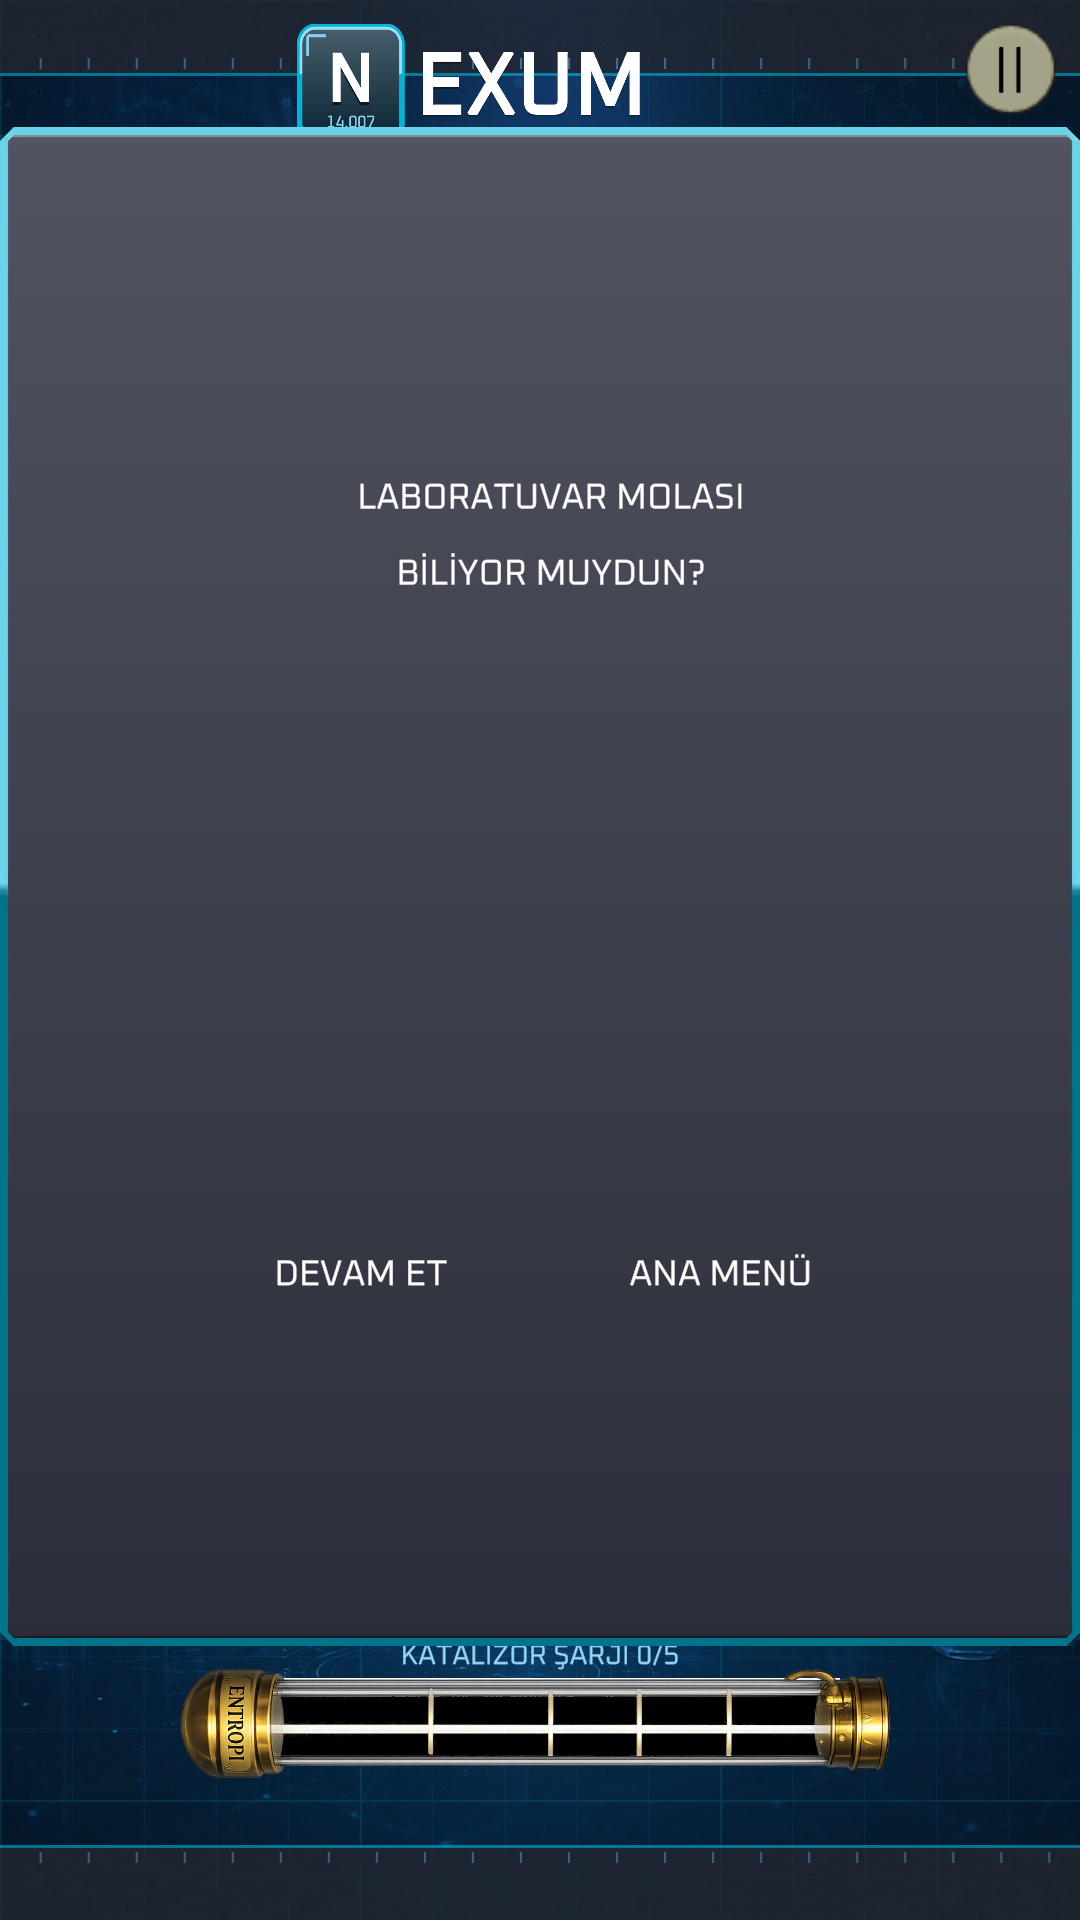
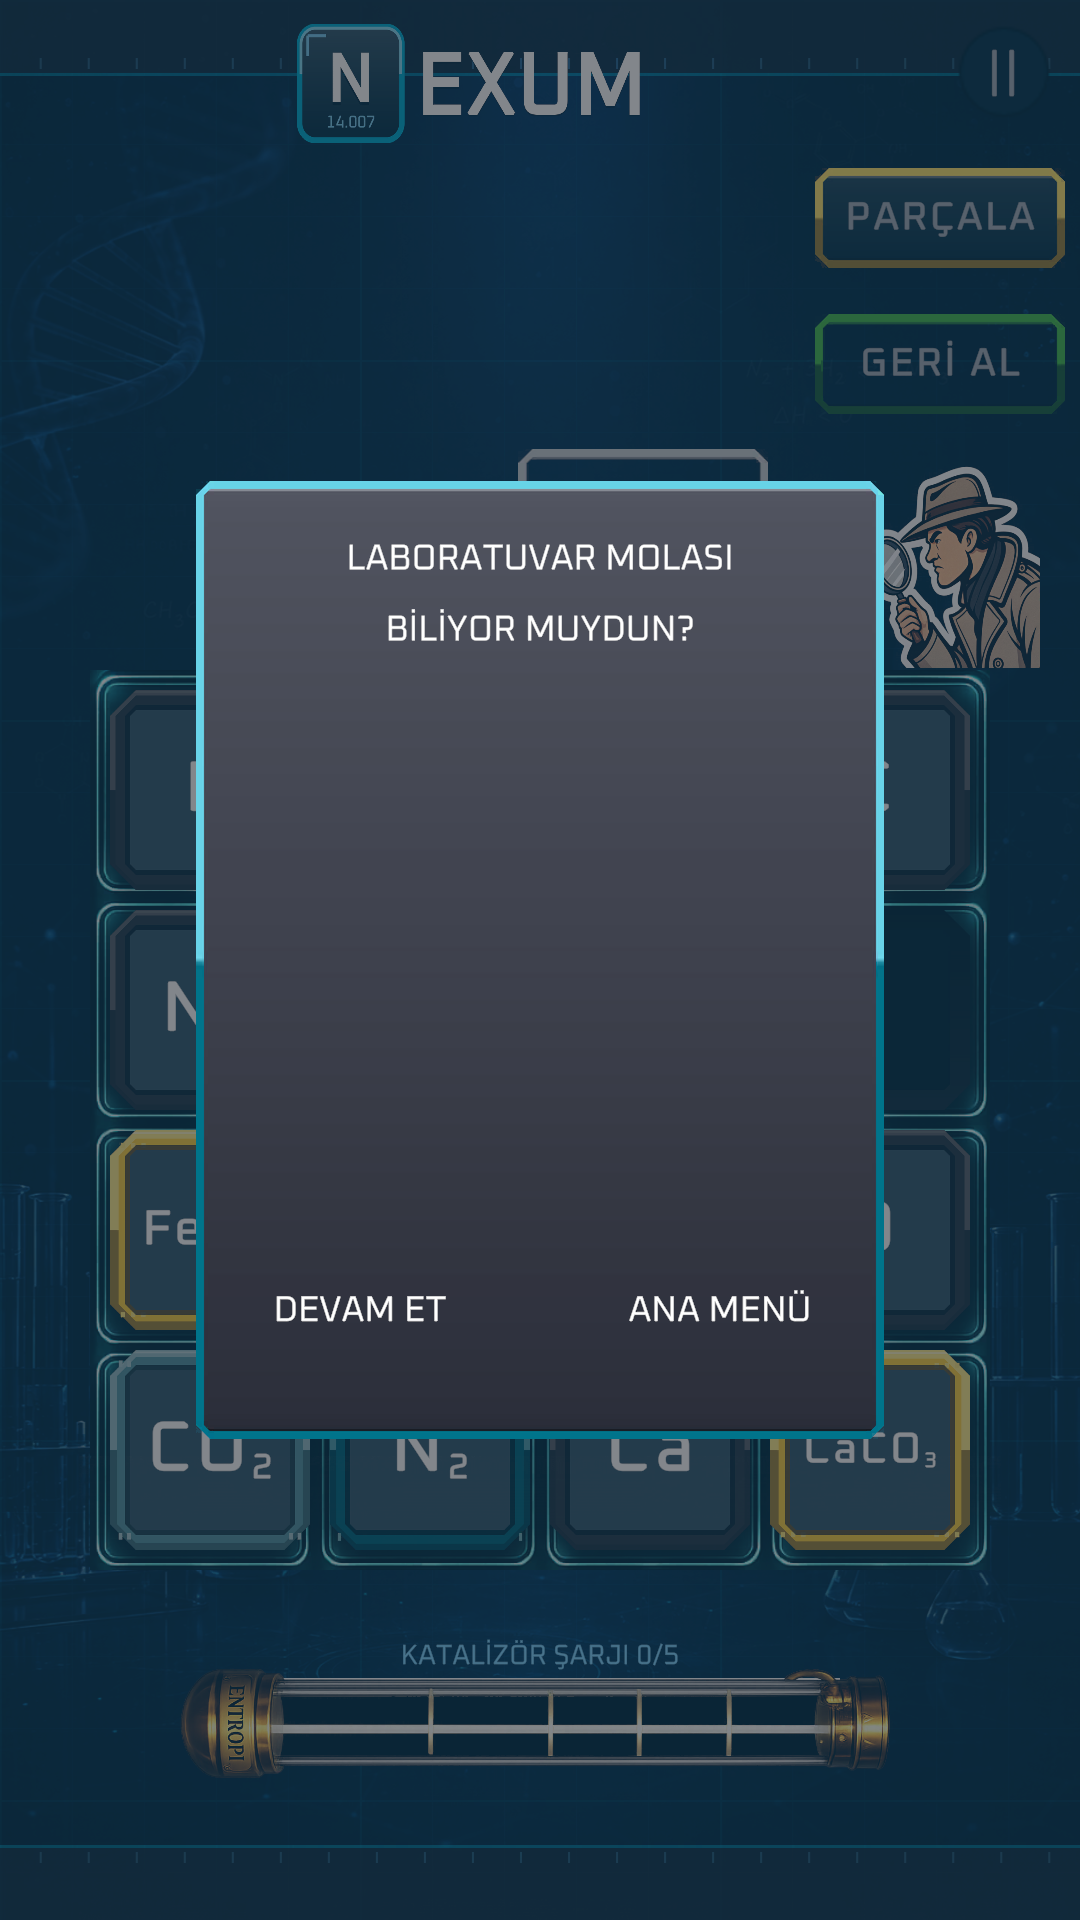
Device shot'lar, 1:1 tahta kesiti ve 3b kapsami
NexumDeviceShot: 6 ekran x 2 boyut (1080x1920, 1440x1920) + tahtanin
1:1 kesiti (detay_tahta-1-1.png, 900x900). Seviye merdiveni metnin
olmadigi cercevede tasiniyor ve cerceve ince bir eleman; olcum sayisinin
vaat ettigi ayrimin gozle de okundugu bu kesitten gorulur. Dort seviye +
bos hucre ayni karede.

Kesit koordinati duzeltildi: GridBoard merkezi ekranin ALTINDAN 800
birim ve Texture2D'de de y=0 alttadir; "ustten" hesaplamak kareyi
kaydiriyordu.

NEXT_3B: ana menunun hub duzeni Faz 1.7'ye alindi. 3b bes maddeye
indi (dort menu butonu, ipucu butonu, beher etiketi, duraklat karti,
mod karti durum satirlari); kapsam disi kalan dort acik madde ayri
tabloya alindi.

.gitignore: Test Runner'in yarida kesilen kosmadan birakdigi
InitTestScene*.unity yok sayiliyor.

diff --git a/Assets/Editor/NexumDeviceShot.cs b/Assets/Editor/NexumDeviceShot.cs
@@ -37,7 +37,7 @@ public static class NexumDeviceShot
         new Vector2Int(1440, 1920),
     };
 
-    private struct Ekran
+    public struct Ekran
     {
         public string ad;
         public string scene;
@@ -46,7 +46,7 @@ public static class NexumDeviceShot
         public bool tahtayiDoldur;
     }
 
-    private static readonly Ekran[] Ekranlar =
+    public static readonly Ekran[] Ekranlar =
     {
         new Ekran { ad = "ana-menu", scene = "Assets/Scenes/MainMenu.unity",
                     ac = new[] { "SafeAreaRoot/MainMenuPanel" },
@@ -113,11 +113,48 @@ public static class NexumDeviceShot
             }
         }
 
+        TahtaKesiti();
         Debug.Log($"{Tag}: {alinan} görüntü -> {OutDir}");
         Debug.Log($"{Tag}: OK");
     }
 
-    private static void Hazirla(Transform canvas, Ekran e)
+    /// <summary>
+    /// 4x4 tahtanın 1:1 (birim = piksel) kesiti. Seviye merdiveni ÇERÇEVEDE
+    /// taşınıyor ve çerçeve ince bir eleman: ölçüm sayısının vaat ettiği
+    /// ayrımın gözle de okunduğu buradan görülür. Dört seviye + boş hücre
+    /// aynı karede.
+    /// </summary>
+    private static void TahtaKesiti()
+    {
+        string kaynak = $"{OutDir}/oyun_1080x1920.png";
+        if (!File.Exists(kaynak))
+        {
+            Debug.LogError($"{Tag}: {kaynak} yok");
+            return;
+        }
+
+        byte[] ham = File.ReadAllBytes(kaynak);
+        Texture2D tam = new Texture2D(2, 2, TextureFormat.RGB24, false);
+        if (!tam.LoadImage(ham)) { Object.DestroyImmediate(tam); return; }
+
+        // GridBoard: 900x900, anchor (0.5, 0.41666666) -> merkez ekranın
+        // ALTINDAN 800 birim. Texture2D'de de y=0 alttadır, yani kesit
+        // doğrudan 350..1250 aralığı; "üstten" hesaplamak kareyi kaydırıyordu.
+        const int x0 = 90, w = 900, h = 900, y0 = 350;
+
+        Texture2D kes = new Texture2D(w, h, TextureFormat.RGB24, false);
+        kes.SetPixels(tam.GetPixels(x0, y0, w, h));
+        kes.Apply();
+
+        string yol = $"{OutDir}/detay_tahta-1-1.png";
+        File.WriteAllBytes(yol, kes.EncodeToPNG());
+        Debug.Log($"{Tag}: {yol}  {w}x{h} (1:1)");
+
+        Object.DestroyImmediate(kes);
+        Object.DestroyImmediate(tam);
+    }
+
+    public static void Hazirla(Transform canvas, Ekran e)
     {
         foreach (string p in e.kapa)
         {
@@ -136,7 +173,7 @@ public static class NexumDeviceShot
     }
 
     /// <summary>Oyun ekranı için tahtaya dört seviyeden taş yerleştirir.</summary>
-    private static void TahtayiDoldur(Scene scene)
+    public static void TahtayiDoldur(Scene scene)
     {
         GridManager grid = Object.FindObjectOfType<GridManager>(true);
         if (grid == null) return;

diff --git a/docs/ui-kit/NEXT_3B.md b/docs/ui-kit/NEXT_3B.md
@@ -27,26 +27,34 @@ Loc anahtarları **hazır** (tr + en, `NexumLocalize` ile derlendi):
 | `menu.level_select` | BÖLÜM SEÇİMİ | LEVEL SELECT |
 | `menu.coming_soon` | Yakında | Coming soon |
 
-## 2. Ana menü hub düzeni
+## 2. Ana menü hub düzeni — **FAZ 1.7'YE ALINDI**
 
-- **Logo EN ÜSTTE ince bant** (profil şeridinin altında değil).
-- **Mod kartları ve günlük bulmaca kartı boş kalmayacak**; her biri tek satır
-  durum taşıyacak — anahtarlar yukarıda hazır.
-- **Bilgi satırı (Ansiklopedi, Tarif Defteri) en zayıf ağırlıkta olmayacak**;
-  mod kartlarıyla eşit ağırlık alacak.
-- Gizleme bayrağı: yeni oyuncuya kilitli girişler gösterilmez.
+Hub düzeni (logo bandı, mod kartları, günlük bulmaca kartı, bilgi satırının
+ağırlığı, kilitli giriş gizleme) **3b kapsamından çıkarıldı**. Loc anahtarları
+yukarıda hazır bekliyor; iş Faz 1.7'de yapılacak.
 
-## 3. Yerleşim düzeltmeleri — 3a'da yapılamayanlar
+## 3. 3b KAPSAMI — beş madde
 
-| Konu | Neden 3a'da yapılmadı | 3b'de ne yapılacak |
-|---|---|---|
-| **Dört menü butonu** (`oyna`, `nasıloynanır`, `ansiklopedi`, `ayarlar`) | Metin **görselin içinde basılı**; kit çerçevesi koymak metni siler | Kit çerçevesi + **TMP etiketi eklenecek** (yapı değişikliği, UIBuilder) |
-| **Beher etiketi** | Formül beherin **içinde** ve çok küçük, okunmuyor | Formül beherin **YANINDA** duracak; sayaç `chip` sprite'ına taşınacak |
-| **Katalizör tüpü** | 3-slice uygulaması yeni oran gerektiriyor | Tüp yatayda 3-slice, dolum çubuğu camın içine |
-| **İpucu butonu** | HUD'da yok | `GERİ AL / PARÇALA / İPUCU` üçlüsü, rozet, devre dışı durumu |
-| **Karakter (hint_assistant)** | Sağ kenardan taşıyor | `icon_button` / `avatar_frame` içine alınıp yeniden çerçevelenecek |
-| **Taş durum sprite'ları** | `TileVisual` bağlı ama yalnızca `newborn` tetikleniyor | `selected` / `merging` / `discovered` çağrı noktaları eklenecek |
-| **Toggle ve kilitli bölüm sprite'ları** | Sahnede `Image.sprite` olarak değil, Button geçişinde tutuluyor olabilir — swap tablosunda eşleşme bulunamadı | Nerede tutulduğu bulunup kite bağlanacak |
+Aşağıdakiler dışında 3b'ye bir şey eklenmez.
+
+| # | Konu | Neden 3a'da yapılmadı | 3b'de ne yapılacak |
+|---|---|---|---|
+| 1 | **Dört menü butonu** (`oyna`, `nasıloynanır`, `ansiklopedi`, `ayarlar`) | Metin **görselin içinde basılı**; kit çerçevesi koymak metni siler | Kit çerçevesi + **TMP etiketi eklenecek** (yapı değişikliği, UIBuilder) |
+| 2 | **İpucu butonu** | HUD'da ayrı bir buton yok; ipucu karakterin kendisine basılarak açılıyor | `GERİ AL / PARÇALA / İPUCU` üçlüsü, rozet, devre dışı durumu |
+| 3 | **Beher etiketi** | Formül beherin **içinde** ve çok küçük, okunmuyor | Formül beherin **YANINDA** duracak; sayaç `chip` sprite'ına taşınacak |
+| 4 | **Duraklat kartı** | 3a'da yalnızca çerçeve ve ritim düzeltildi; DEVAM ET / ANA MENÜ hâlâ görselsiz (alfa 0) metin | Butonlar kit çerçevesine oturtulacak |
+| 5 | **Mod kartı durum satırları** | Ayarlar'daki üç mod butonu hangi modun seçili olduğunu yalnızca sprite durumuyla anlatıyor | Her mod kartı tek satır durum/açıklama taşıyacak |
+
+### 3b dışında kalan, bilinen açık maddeler
+
+Bunlar 3b kapsamında **değil**; sırası geldiğinde ayrı adım olarak ele alınır.
+
+| Konu | Durum |
+|---|---|
+| Katalizör tüpü 3-slice | Açık |
+| Karakter (`hint_assistant`) çerçevelenmesi | Açık |
+| Taş durum sprite'ları (`selected` / `merging` / `discovered` çağrı noktaları) | Açık — yalnızca `newborn` tetikleniyor |
+| Toggle sprite'ları `SettingsManager`'da çalışma zamanında atanıyor | Açık — kite bağlanacak |
 
 ## 4. Silinecek dosyalar (silme yetkim yok)
 
